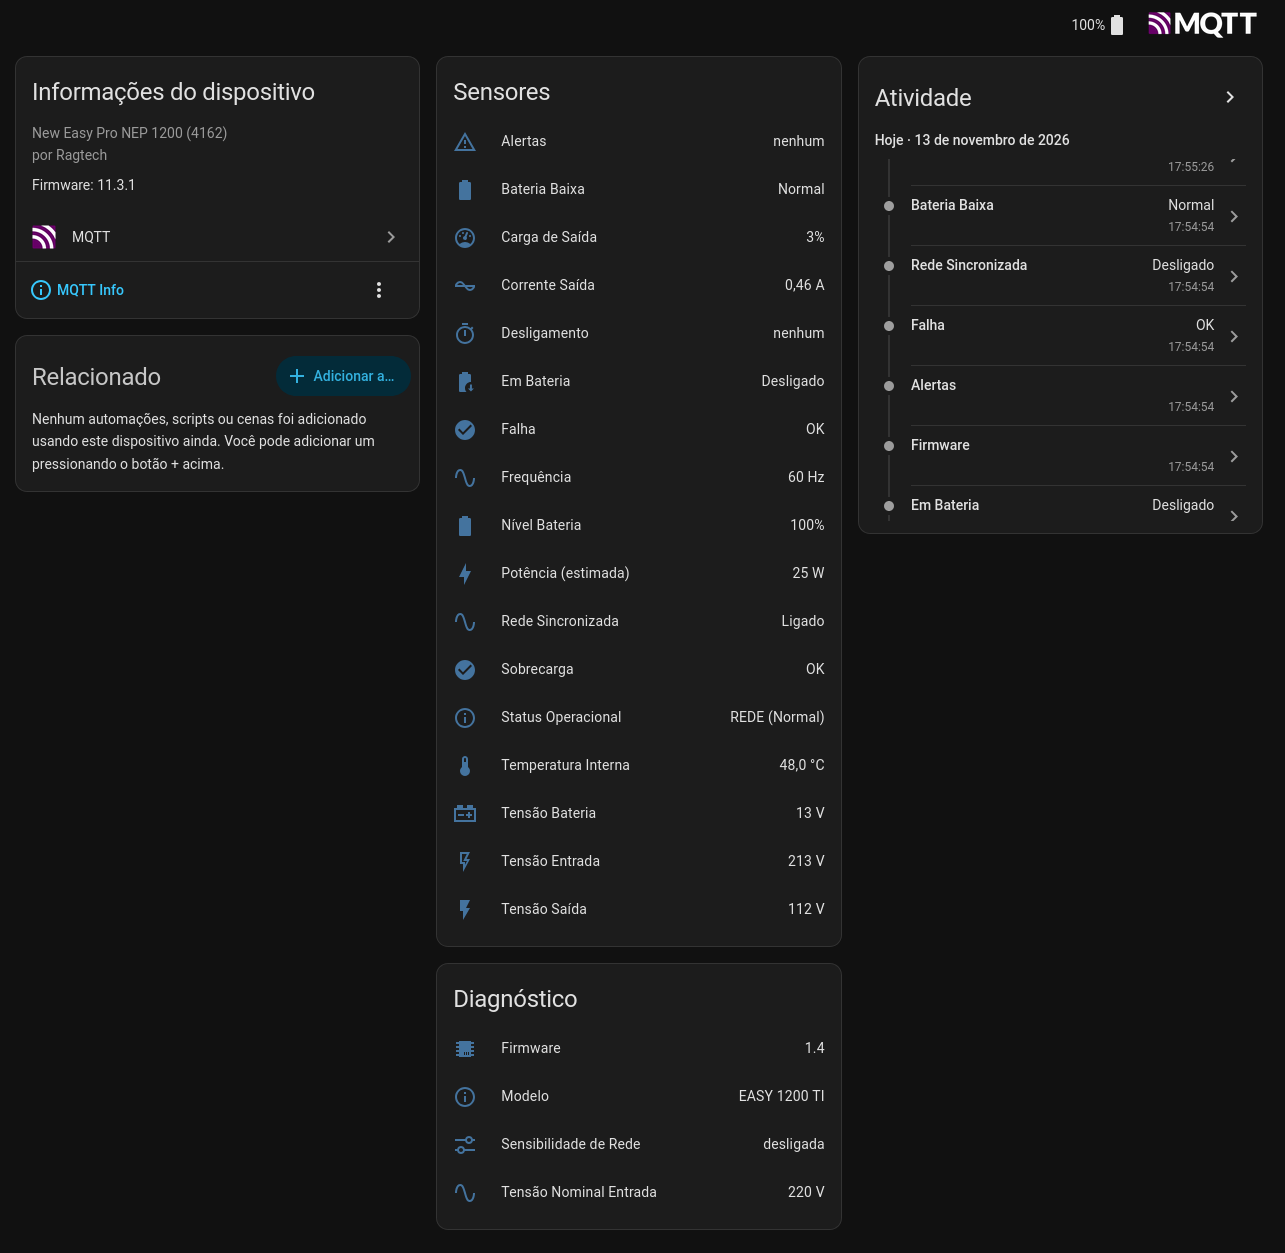
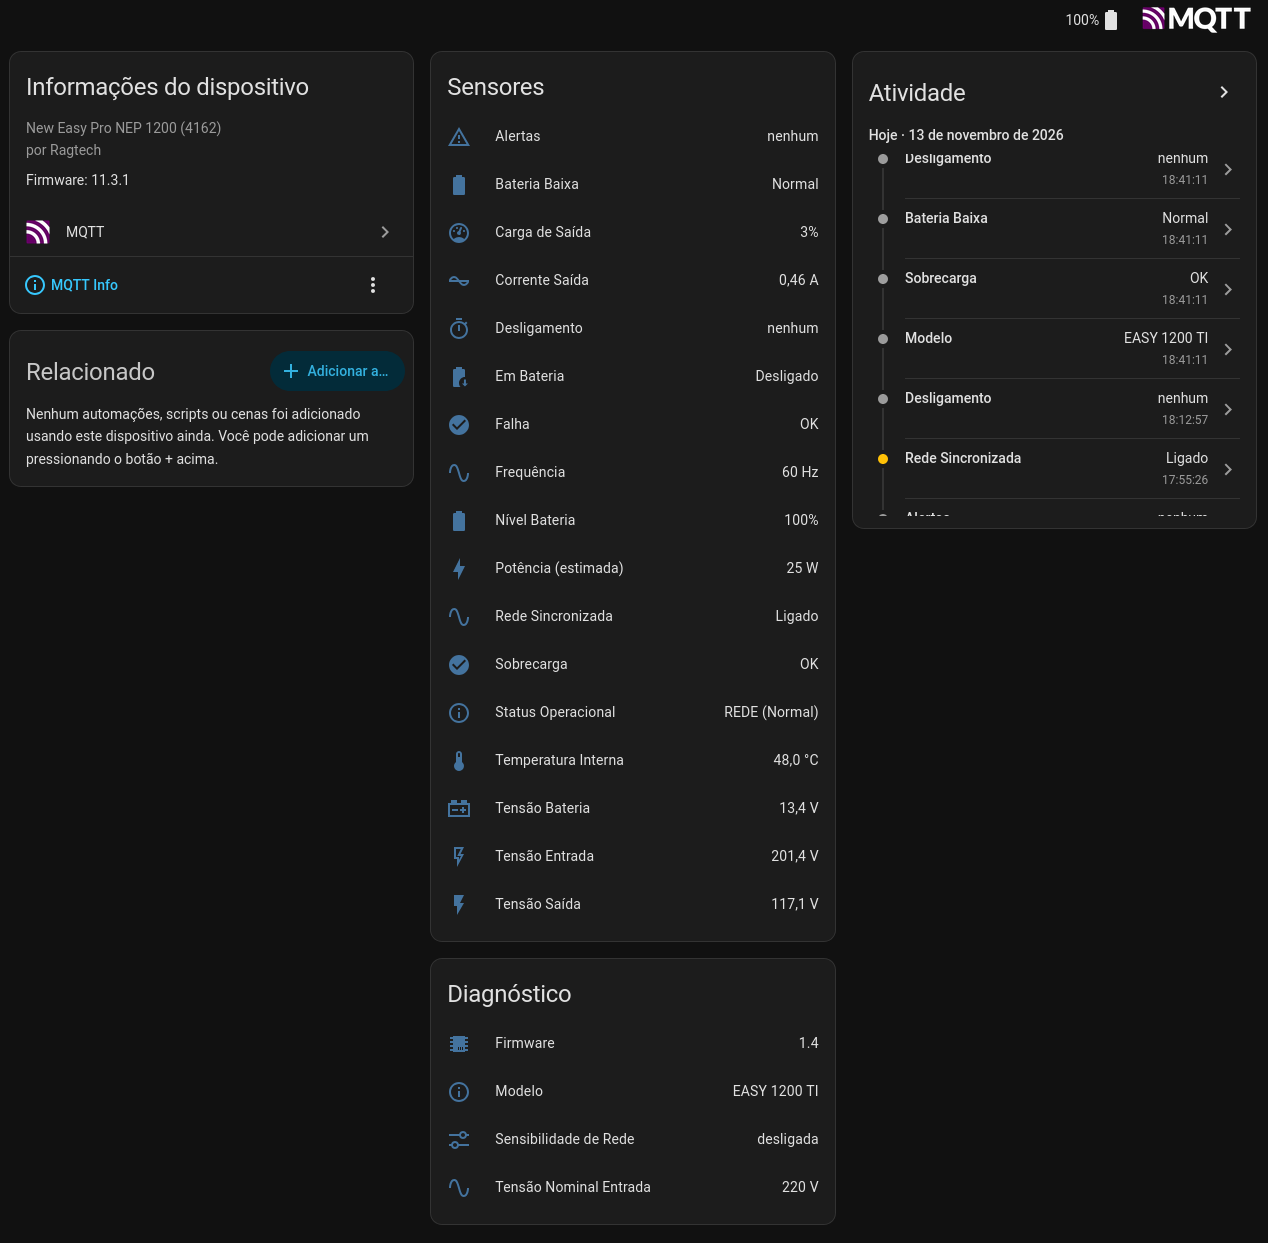
Corrige limite do percentual da bateria

diff --git a/src/main/java/br/com/edward/joule/nobreak/RagtechEasy.java b/src/main/java/br/com/edward/joule/nobreak/RagtechEasy.java
@@ -119,7 +119,7 @@ public class RagtechEasy {
                 .loadPercentage(carga)
                 .realPower(carga / 100.0 * modelo.getPotenciaNominalVa() * FATOR_POTENCIA)
                 .batteryVoltage(m.v(V_VBATTERY) * modelo.fatorTensaoBateria())
-                .batteryPercentage(Math.min(100.0, m.v(V_CBATTERY) * 0.393))
+                .batteryPercentage(Math.clamp(m.v(V_CBATTERY) * 0.393, 0.0, 100.0))
                 .temperature(temperatura)
                 .shutdownTimer(m.v(V_SHUTDOWNTIMER) != 0 ? m.v(V_SHUTDOWNTIMER) : null)
                 .wakeupTimer(wakeup)

diff --git a/README.md b/README.md
@@ -8,18 +8,18 @@ Foi escrito para uso doméstico, roda em container e não depende de nuvem nem d
 
 ## Aviso importante, leia antes de usar
 
-Este projeto foi feito por **engenharia reversa** do protocolo serial do nobreak, observando os
-bytes trocados na porta USB.
+Este projeto foi feito por **engenharia reversa**, sem nenhuma documentação oficial do protocolo.
 
-* Eu **nunca tive acesso** a documentação, especificação, SDK, firmware ou qualquer material
-  técnico da Ragtech.
+* Eu **nunca tive acesso** a documentação técnica, especificação, SDK ou firmware fornecidos pela
+  Ragtech.
+* O mapa do protocolo (endereços, fórmulas de conversão, bits de status e comandos) foi montado a
+  partir de informações de origem não oficial, que podem estar incompletas ou erradas, e **só foi
+  validado no meu equipamento**, o 4162. Nos outros modelos da linha, os valores lidos e os comandos
+  enviados podem estar errados, mesmo que o modelo pareça igual.
 * Este projeto **não tem nenhum vínculo** com a Ragtech Eletrônica Industrial Ltda. Não é
   autorizado, homologado, patrocinado nem revisado por ela. "Ragtech", "Easy Pro" e "Supervise" são
   marcas de seus titulares e aparecem aqui apenas para indicar com qual equipamento o software foi
   testado e qual software ele substitui.
-* Os valores de calibração, os bits de status e os comandos de desligamento foram **deduzidos por
-  observação**. Eles funcionam no meu equipamento. Podem estar errados no seu, mesmo que o modelo
-  pareça igual.
 
 **Use por sua conta e risco.** Este software envia comandos que cortam a saída do nobreak e
 desligam máquinas. Um comando interpretado de forma diferente pelo seu equipamento pode causar

diff --git a/DOCKERHUB.md b/DOCKERHUB.md
@@ -12,10 +12,12 @@ Feito para uso doméstico. Roda em container, sem nuvem e sem serviço externo.
 
 ## Aviso importante
 
-O protocolo do nobreak foi obtido por **engenharia reversa**, observando os bytes trocados na porta
-USB. Este projeto **não tem nenhum vínculo** com a Ragtech Eletrônica Industrial Ltda. "Ragtech",
-"Easy Pro" e "Supervise" são marcas de seus titulares e aparecem aqui apenas para indicar com qual
-equipamento o software foi testado e qual software ele substitui.
+O protocolo do nobreak foi obtido por **engenharia reversa**, sem documentação oficial, a partir de
+informações de origem não oficial que podem estar erradas. Só foi validado no modelo 4162; nos
+outros, os valores e os comandos podem estar errados. Este projeto **não tem nenhum vínculo** com a
+Ragtech Eletrônica Industrial Ltda. "Ragtech", "Easy Pro" e "Supervise" são marcas de seus
+titulares e aparecem aqui apenas para indicar com qual equipamento o software foi testado e qual
+software ele substitui.
 
 **Use por sua conta e risco.** O Joule envia comandos que cortam a saída do nobreak e desligam
 máquinas. Teste com carga sem importância antes de confiar nele. Sem qualquer garantia, nos termos
